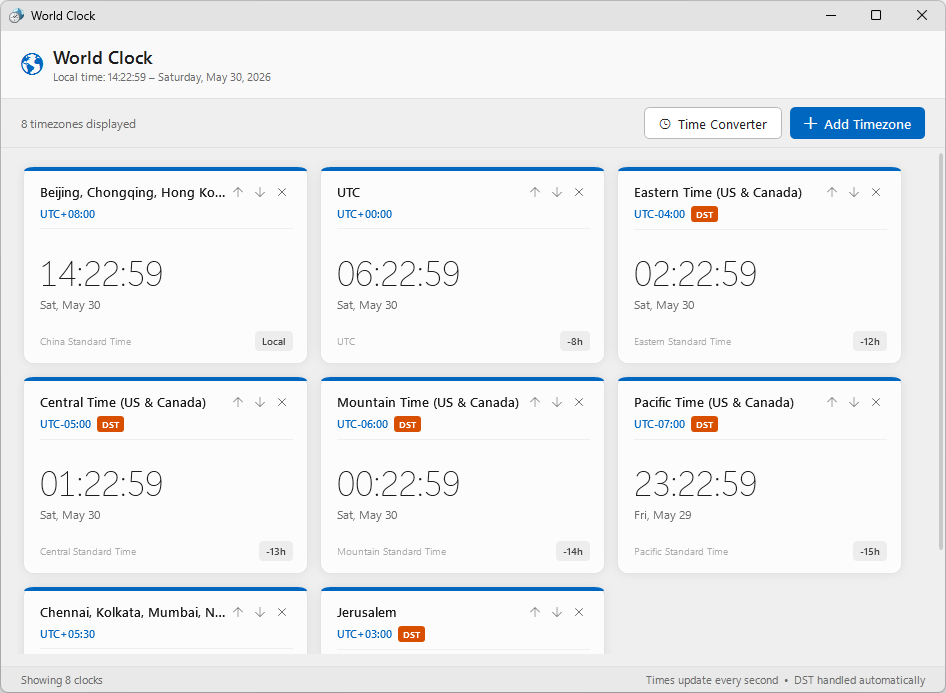
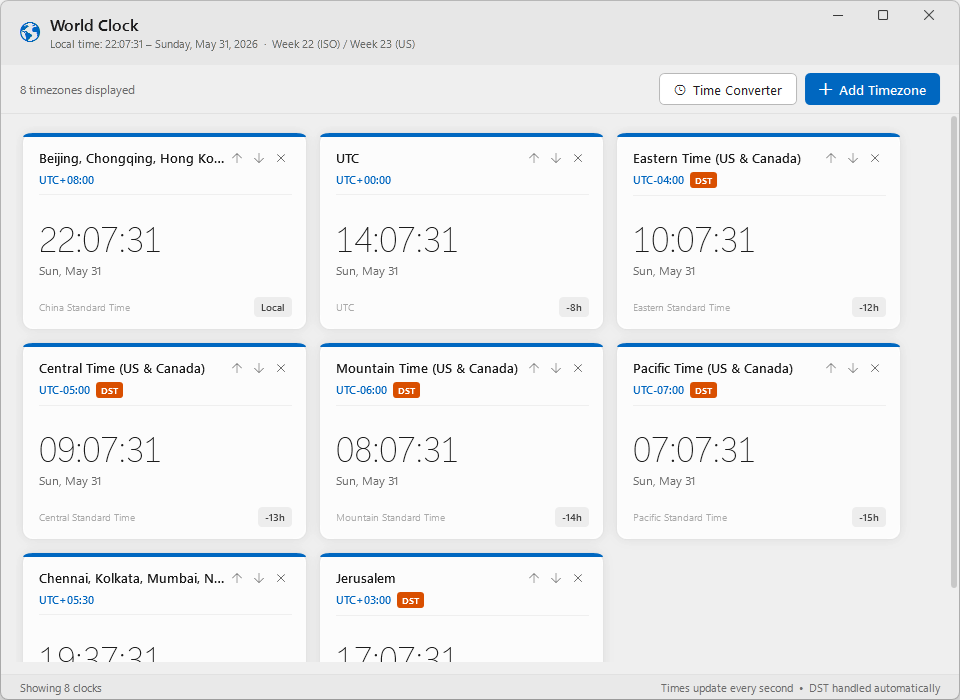
WorldClock: Add week number support

diff --git a/WorldClock/WorldClock/MainWindow.xaml.cs b/WorldClock/WorldClock/MainWindow.xaml.cs
@@ -68,11 +68,40 @@ namespace WorldClock
         }
         #endregion
 
+        // Cached cultures — reused every second by UpdateHeaderTime
+        private static readonly System.Globalization.CultureInfo _enUS =
+            System.Globalization.CultureInfo.GetCultureInfo("en-US");
+        private static readonly System.Globalization.Calendar _gregCal =
+            System.Globalization.CultureInfo.InvariantCulture.Calendar;
+
         private void UpdateHeaderTime()
         {
             var now = DateTime.Now;
-            LocalTimeHeader.Text = $"Local time: {now:HH:mm:ss} \u2013 {now:dddd, MMMM d, yyyy}";
+            LocalTimeHeader.Text =
+                $"Local time: {now:HH:mm:ss} \u2013 {now:dddd, MMMM d, yyyy}" +
+                $"  \u00b7  Week {GetISOWeekNumber(now)} (ISO) / Week {GetUSWeekNumber(now)} (US)";
         }
+
+        // ISO 8601 week: week 1 = the week containing the first Thursday of the year;
+        // weeks start on Monday. Uses a +3-day shift to work around a known bug in
+        // .NET Framework 4.x Calendar.GetWeekOfYear (fixed in .NET 5 via ISOWeek class).
+        private static int GetISOWeekNumber(DateTime date)
+        {
+            DayOfWeek day = _gregCal.GetDayOfWeek(date);
+            if (day >= DayOfWeek.Monday && day <= DayOfWeek.Wednesday)
+                date = date.AddDays(3);
+            return _gregCal.GetWeekOfYear(
+                date,
+                System.Globalization.CalendarWeekRule.FirstFourDayWeek,
+                DayOfWeek.Monday);
+        }
+
+        // US week: week 1 = the week containing January 1; weeks start on Sunday.
+        private static int GetUSWeekNumber(DateTime date) =>
+            _enUS.Calendar.GetWeekOfYear(
+                date,
+                _enUS.DateTimeFormat.CalendarWeekRule,
+                _enUS.DateTimeFormat.FirstDayOfWeek);
 
         private void UpdateClockCount()
         {